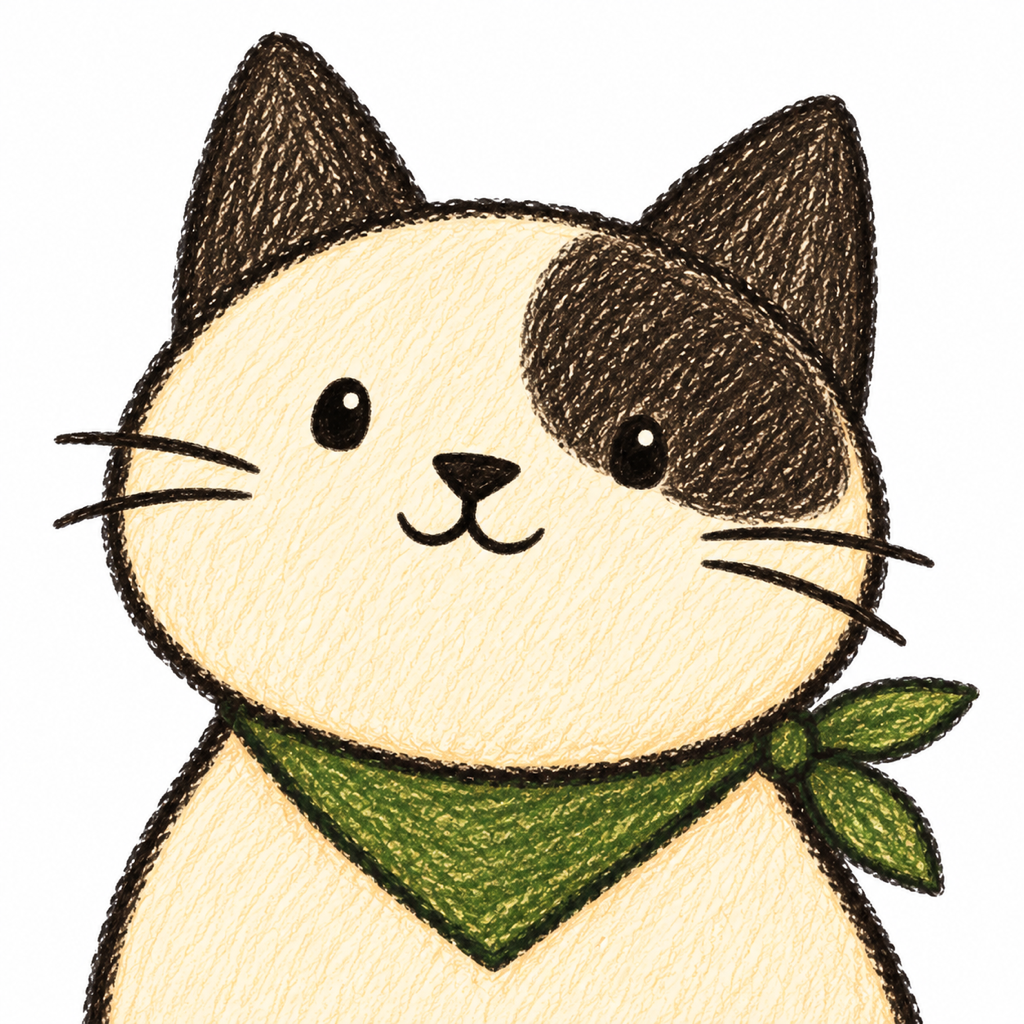
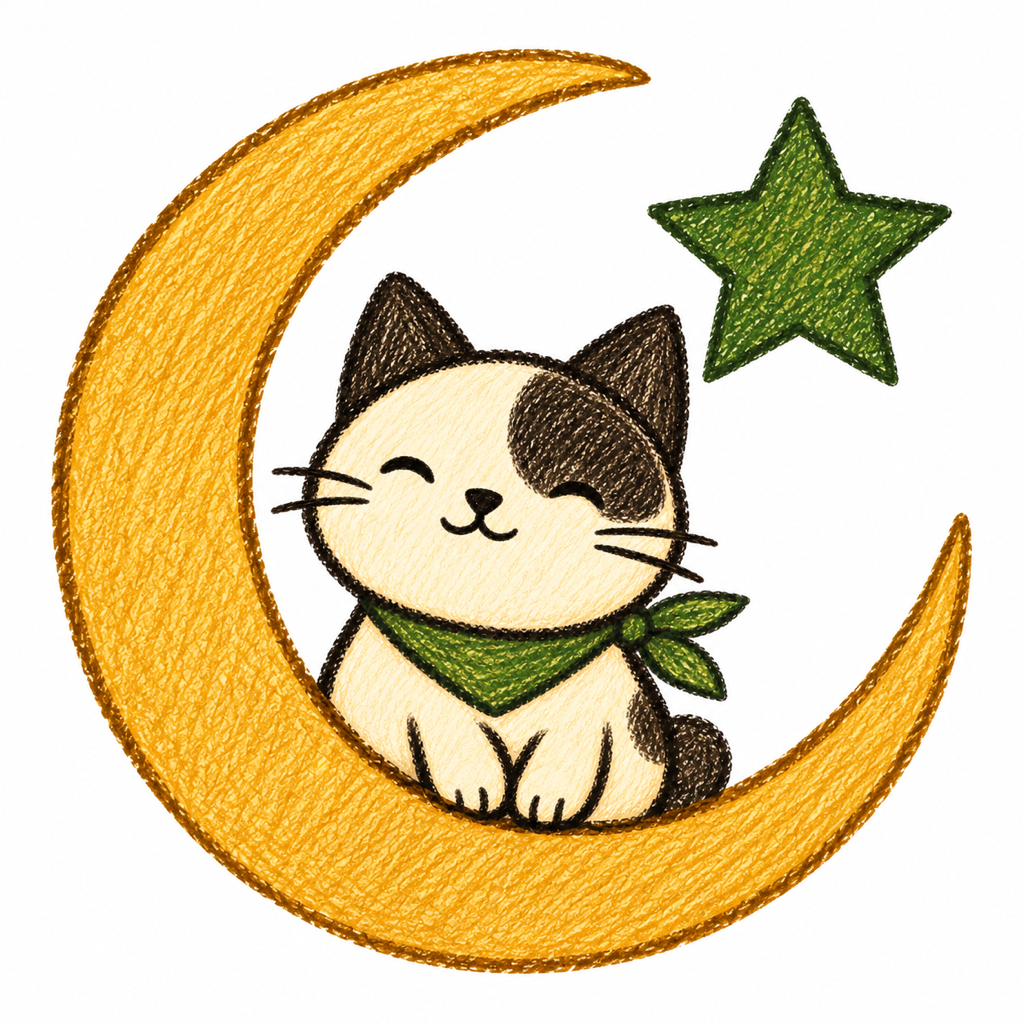
Restore crescent-and-star identity and enlarge prayer widget companion

diff --git a/Sakina/Views/CompanionWidgetGallery.swift b/Sakina/Views/CompanionWidgetGallery.swift
@@ -12,6 +12,12 @@ struct CompanionWidgetGallery: View {
         ScrollView {
             VStack(alignment: .leading, spacing: 16) {
                 Text("Yaqeen widgets").font(.largeTitle.bold())
+                Text("Lock Screen · Prayer Companion").font(.headline)
+                HStack(spacing: 12) {
+                    lockCard(date: schedule.days[0].events[0].time.addingTimeInterval(-1800))
+                    lockCard(date: schedule.days[0].events[4].time.addingTimeInterval(-1800))
+                }
+                lockCard(date: previewDate, hasLocation: false)
                 HStack(spacing: 16) {
                     card(width: 170) {
                         VerseCompanionCard(situation: situation, caption: "Ayah of the day", compact: true)
@@ -29,6 +35,16 @@ struct CompanionWidgetGallery: View {
             .padding(20)
         }
         .background(Color(uiColor: .systemGroupedBackground))
+    }
+
+    private func lockCard(date: Date, hasLocation: Bool = true) -> some View {
+        CompanionCollectionCard(choice: .prayerCat, date: date,
+                                schedule: hasLocation ? schedule : nil, lockScreen: true, preview: true)
+            .foregroundStyle(.white)
+            .environment(\.colorScheme, .dark)
+            .padding(12)
+            .frame(width: 180, height: 86)
+            .background(Color(white: 0.26), in: RoundedRectangle(cornerRadius: 18))
     }
 
     private func card<Content: View>(width: CGFloat = 356, @ViewBuilder content: () -> Content) -> some View {

diff --git a/Shared/CompanionWidgetCollection.swift b/Shared/CompanionWidgetCollection.swift
@@ -74,13 +74,16 @@ struct CompanionCollectionCard: View {
             if lockScreen {
                 HStack(spacing: 8) {
                     Image(uiImage: CompanionImage.inkMask(choice.artwork)).resizable().renderingMode(.template)
-                        .scaledToFit().frame(width: 38, height: 48).widgetAccentable()
+                        .scaledToFit().frame(width: 58, height: 58).widgetAccentable()
+                        .accessibilityHidden(true)
                     VStack(alignment: .leading, spacing: 3) {
-                        Text(next?.kind.displayName(locale: .current) ?? "Prayer companion").font(.headline).lineLimit(1)
-                        if let next { Text(time(next.time)).font(.subheadline.monospacedDigit()) }
+                        Text(next?.kind.displayName(locale: .current) ?? "Prayer times").font(.headline).lineLimit(1).minimumScaleFactor(0.8)
+                        if let next { Text(time(next.time)).font(.subheadline.monospacedDigit()).lineLimit(1).minimumScaleFactor(0.8) }
                         else { Text("Set your location in Yaqeen").font(.caption2).lineLimit(2) }
                     }
+                    .frame(maxWidth: .infinity, alignment: .leading)
                 }
+                .accessibilityElement(children: .combine)
             } else if choice == .timetable {
                 PrayerCompanionCard(schedule: schedule, date: date)
             } else if choice == .daily || choice == .pinned {

diff --git a/Design/YaqeenBrand/README.md b/Design/YaqeenBrand/README.md
@@ -1,5 +1,13 @@
 # Yaqeen cat app icon
 
+Latest revision (12 September 2026): gold crescent and green five-pointed star on white, with the scarf-wearing cat nestled inside. The crescent/star now lead the visual identity. Generated using the built-in image_gen tool, with the previous white cat icon as the character reference; final sizes delivered using mechanical sips resizing.
+
+### Latest generation prompt
+
+Use case: logo-brand. Create the final Islamic companion app icon from this character reference. Keep an opaque pure white background, cream-and-charcoal pencil-drawn cat with a moss-green scarf, warm hand-crafted colored pencil texture. IMPORTANT hierarchy: a large unmistakable crescent moon and one five-pointed star are the main emblem, with the cat as a companion nestled inside the lower curve. Design a bold warm ochre GOLD CRESCENT framing the composition on left and bottom, opening to upper right, occupying 80 percent of square height. One clean moss-green FIVE-POINTED STAR prominently in the upper-right opening, around 18 percent of square width, clearly separated from the cat. The cat is seated compactly in the crescent's lower curve, occupying about 48 percent of the icon height, cream face visible with charcoal ears and eye patch, calm gently closed eyes, moss scarf, small front paws. Clear white negative space between star, cat ears, crescent tip. Preserve the friendly pencil illustration identity, but this must read first as a crescent-and-star Islamic app emblem rather than a pet portrait. All shapes chunky and legible at 40px. Restrained lightly textured pencil shading, strong confident contours, no black or green background. Keep whole emblem comfortably inside 10 percent safe margin. No letters, Arabic text, words, extra symbols, scenery, gradients, shadows, gloss, 3D, border, rounded icon corners or mockup. Deliver just one opaque square 1024x1024 app icon.
+
+### Earlier revisions
+
 Current revision: white background with a larger, front-facing cat portrait. Generated with the built-in image_gen tool on 11 September 2026 using the previous app icon as the character/style reference. Mechanical sips resizing supplies all iOS icon sizes, the shared runtime logo, public website logo and Design/YaqeenAppIcon-1024.png. The earlier dark icon is preserved in git history.
 
 ## Current generation prompt
